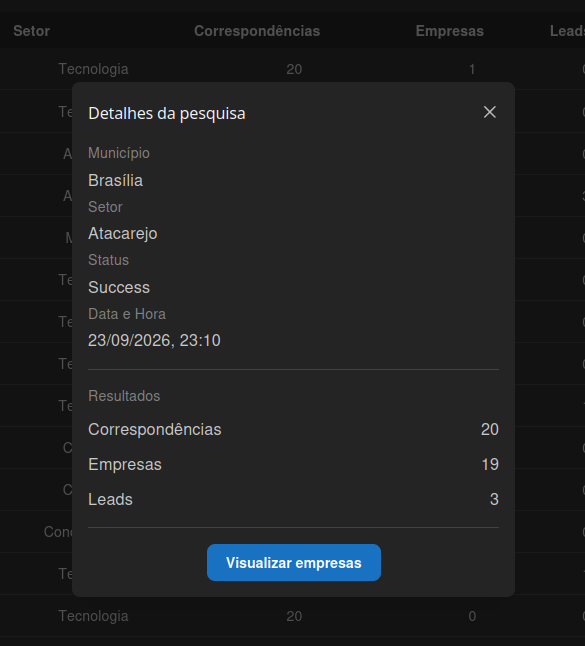
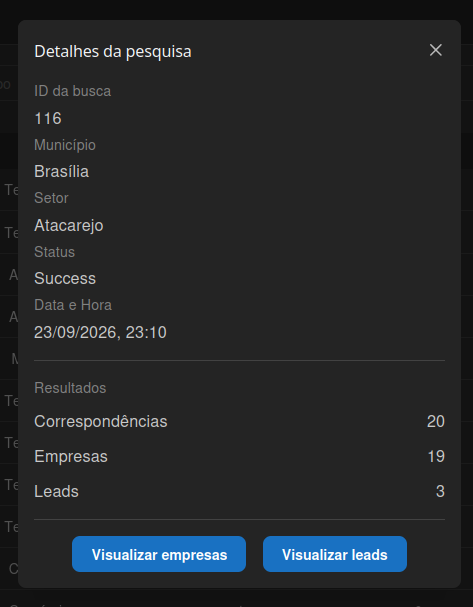
feat: Navegação para empresas e leads no menu mostrar detalhes da pesquisa e ajustes no readme

diff --git a/src/backend/main.py b/src/backend/main.py
@@ -2,6 +2,9 @@ from fastapi import FastAPI, HTTPException
 from fastapi.middleware.cors import CORSMiddleware
 import traceback
 
+from typing import Annotated
+from fastapi import Query
+
 from src.backend.data_storage.database import inicializar_banco
 
 from src.backend.models.company_search import CompanySearch
@@ -97,9 +100,9 @@ def list_searchs():
         )
 
 @app.get("/companies")
-def listar_companies():
+def listar_companies(search_ids: Annotated[list[int] | None, Query()] = None):
     try:
-        return retornar_companies()
+        return retornar_companies(search_ids)
 
     except Exception as e:
         print(f"⚠ Erro ao listar companies: {e}")
@@ -110,9 +113,9 @@ def listar_companies():
         )
 
 @app.get("/leads")
-def listar_leads():
+def listar_leads(search_ids: Annotated[list[int] | None, Query()] = None):
     try:
-        return retornar_leads()
+        return retornar_leads(search_ids)
 
     except Exception as e:
         print(f"⚠ Erro ao listar leads: {e}")
@@ -121,6 +124,7 @@ def listar_leads():
             status_code=500,
             detail=f"Erro ao listar leads: {e}"
         )
+
 
 @app.delete("/delete-searches")
 def deletar_buscas(ids: list[int]):

diff --git a/src/backend/data_storage/lead_repository.py b/src/backend/data_storage/lead_repository.py
@@ -140,3 +140,44 @@ class LeadRepository:
         cursor.close()
 
         return [row[0] for row in rows]
+
+    def find_by_search_ids(
+        self,
+        banco,
+        search_ids: list[int]
+    ) -> list[LeadResult]:
+
+        cursor = banco.cursor()
+
+        cursor.execute("""
+            SELECT
+                leads.id,
+                leads.company_id,
+                companies.nome_empresa,
+                leads.ia_score,
+                leads.ia_justificativa
+            FROM leads
+            JOIN companies
+                ON leads.company_id = companies.id
+            WHERE companies.search_id = ANY(%s)
+            ORDER BY leads.ia_score DESC, leads.id DESC
+        """, (search_ids,))
+
+        rows = cursor.fetchall()
+
+        leads = []
+
+        for row in rows:
+            lead = LeadResult(
+                id=row[0],
+                company_id=row[1],
+                nome_empresa=row[2],
+                ia_score=row[3],
+                ia_justificativa=row[4]
+            )
+
+            leads.append(lead)
+
+        cursor.close()
+
+        return leads

diff --git a/src/backend/services/leadflow_service.py b/src/backend/services/leadflow_service.py
@@ -193,24 +193,25 @@ def retornar_buscas() -> list[Search]:
 
     search_repo = SearchRepository()
     buscas = search_repo.list_all(banco)
-
     return buscas
 
-def retornar_companies() -> list[Company]:
+def retornar_companies(search_ids: list[int] | None) -> list[Company]:
     banco = obter_conexao()
-
     company_repo = CompanyRepository()
-    companies = company_repo.list_all(banco)
 
-    return companies
+    if search_ids is not None:
+        return company_repo.find_by_search_ids(banco, search_ids)
 
-def retornar_leads() -> list[LeadResult]:
+    return company_repo.list_all(banco)
+
+def retornar_leads(search_ids: list[int] | None) -> list[LeadResult]:
     banco = obter_conexao()
-
     lead_repo = LeadRepository()
-    leads = lead_repo.list_all_with_company(banco)
 
-    return leads
+    if search_ids is not None:
+        return lead_repo.find_by_search_ids(banco, search_ids)
+
+    return lead_repo.list_all_with_company(banco)
 
 
 def excluir_buscas(ids: list[int]) -> list[Search]:

diff --git a/readme.md b/readme.md
@@ -67,7 +67,8 @@ A tela de buscas possui:
 - seleção múltipla;
 - visualização dos detalhes da busca;
 - exclusão de buscas;
-- indicador visual de status da busca.
+- indicador visual de status da busca;
+- navegar para resultados de empresas e leads pelo menu detalhes de pesquisa;
 
 ![Histórico de buscas](docs/gifs/historicobuscas.gif)
 
